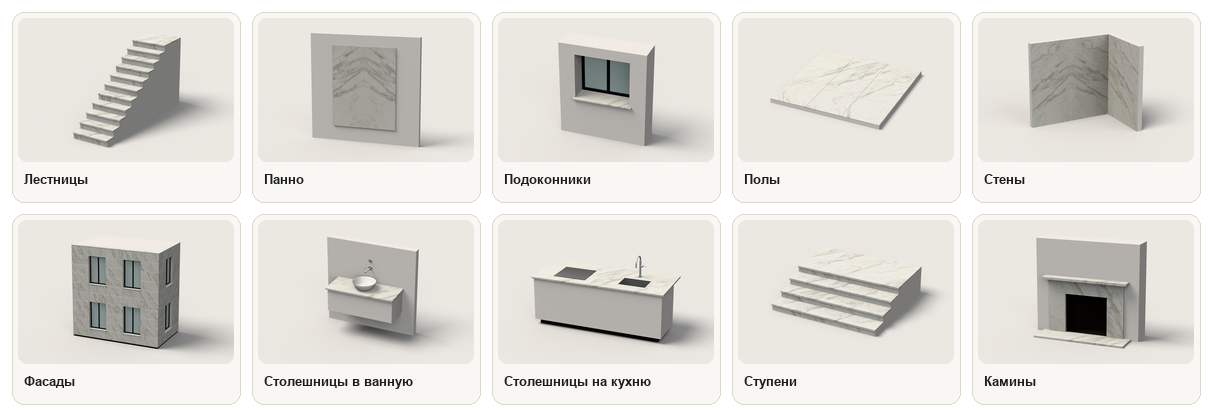
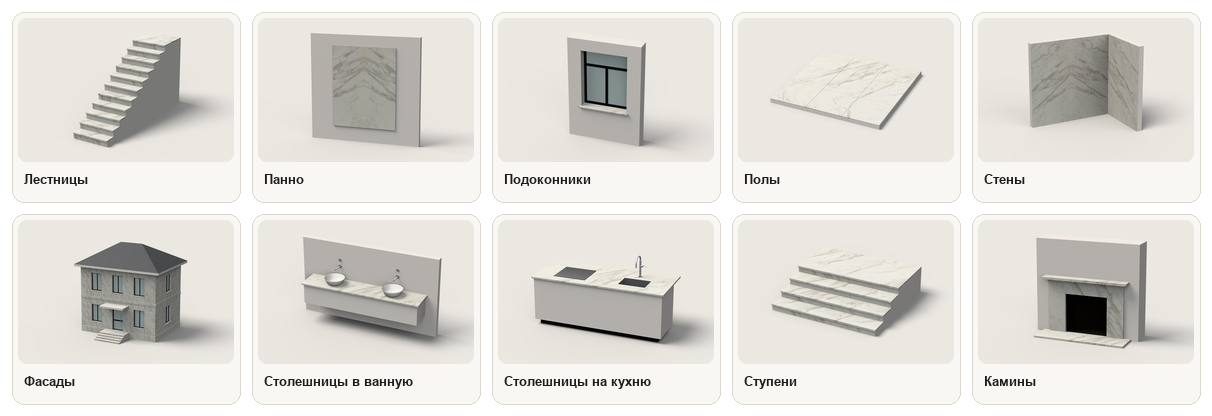
Series А, owner's notes: bathroom top 2400 long like the kitchen one (double vanity: two vessel bowls, two wall spouts); window sill in a 350 wall under a taller 1200x1550 window with a transom; the facade is now a two-storey house 8400x6000 -- projecting stone plinth, stone floor belt, windows and 

Changed region(s): [[0.2442, 0.5625, 0.3969, 0.8438], [0.0611, 0.5625, 0.1832, 0.8438], [0.4579, 0.0938, 0.58, 0.3438]]

diff --git a/scripts/icon-studio/studio.js b/scripts/icon-studio/studio.js
@@ -126,6 +126,7 @@ M.soot = new THREE.MeshStandardMaterial({ color: 0x302e2c, roughness: 0.95 });
 M.frame = new THREE.MeshStandardMaterial({ color: 0x3a3b3c, metalness: 0.6, roughness: 0.45, envMap: ENV, envMapIntensity: 0.5 });
 // стекло как в архитектурном макете: светлое серо-зелёное, с отражением, без «чёрных дыр» в кадре
 M.glass = new THREE.MeshPhysicalMaterial({ color: 0x9fadac, roughness: 0.08, clearcoat: 1, clearcoatRoughness: 0.03, envMap: ENV, envMapIntensity: 0.8 });
+M.roof = new THREE.MeshStandardMaterial({ color: 0x45474a, roughness: 0.55, metalness: 0.3, envMap: ENV, envMapIntensity: 0.4, side: THREE.DoubleSide });
 M.ceramic = new THREE.MeshPhysicalMaterial({ color: 0xf2f1ee, roughness: 0.22, clearcoat: 0.6, clearcoatRoughness: 0.1, envMap: ENV, envMapIntensity: 0.35, side: THREE.DoubleSide });
 
 // ---- плита любой ориентации ----
@@ -317,42 +318,46 @@ function kitchenIsland() {
   return { group: g, camera: {} };
 }
 
-// ---- 2. Столешницы в ванную: подвесная тумба, накладная раковина, настенный излив ----
-// Фрагмент стены 1600×1550×120; тумба 1160×400×460 без фасадов (гипс); плита 1200×500×30, верх на 850;
-// чаша ⌀400×130; излив из стены на 1120.
+// ---- 2. Столешницы в ванную: двойная раковина на подвесной тумбе ----
+// Фрагмент стены 2800×1600×120; тумба 2340×400×460 без фасадов (гипс); плита 2400×500×30 (длина как
+// у кухонной), верх на 850; две накладные чаши ⌀400×130 по осям ±600, над каждой — излив из стены на 1120.
 function bathVanity() {
   const g = new THREE.Group();
   const top = 0.85;
-  g.add(panel(B(-0.8, 0.8, 0, 1.55, -0.12, 0), 'front', { mat: M.plaster }));
-  g.add(box(-0.58, 0.58, 0.42, top - 0.03, 0, 0.46, M.plaster));
-  g.add(panel(B(-0.6, 0.6, top - 0.03, top, 0, 0.5), 'up'));
+  g.add(panel(B(-1.4, 1.4, 0, 1.6, -0.12, 0), 'front', { mat: M.plaster }));
+  g.add(box(-1.17, 1.17, 0.42, top - 0.03, 0, 0.46, M.plaster));
+  g.add(panel(B(-1.2, 1.2, top - 0.03, top, 0, 0.5), 'up'));
   const prof = [[0, 0], [0.11, 0], [0.155, 0.035], [0.188, 0.095], [0.2, 0.13], [0.193, 0.13], [0.181, 0.097], [0.148, 0.042], [0.104, 0.011], [0, 0.011]]
     .map(([r, y]) => new THREE.Vector2(r, y));
-  const bowl = new THREE.Mesh(new THREE.LatheGeometry(prof, 128), M.ceramic);
-  bowl.position.set(0, top, 0.25); bowl.castShadow = bowl.receiveShadow = true; g.add(bowl);
-  const drain = cylinder(0.02, 0.002, M.steel, 48); drain.position.set(0, top + 0.012, 0.25); g.add(drain);
-  const sy = top + 0.27;
-  const plate = cylinder(0.032, 0.012, M.steel); plate.rotation.x = Math.PI / 2; plate.position.set(0, sy, 0.006); g.add(plate);
-  const spout = cylinder(0.011, 0.2, M.steel); spout.rotation.x = Math.PI / 2; spout.position.set(0, sy, 0.112); g.add(spout);
-  const plate2 = cylinder(0.028, 0.012, M.steel); plate2.rotation.x = Math.PI / 2; plate2.position.set(0, sy + 0.13, 0.006); g.add(plate2);
-  const lever = cylinder(0.005, 0.06, M.steel, 32); lever.rotation.x = Math.PI / 2; lever.position.set(0, sy + 0.13, 0.04); g.add(lever);
+  const bowlGeo = new THREE.LatheGeometry(prof, 128);
+  for (const x of [-0.6, 0.6]) {
+    const bowl = new THREE.Mesh(bowlGeo, M.ceramic);
+    bowl.position.set(x, top, 0.25); bowl.castShadow = bowl.receiveShadow = true; g.add(bowl);
+    const drain = cylinder(0.02, 0.002, M.steel, 48); drain.position.set(x, top + 0.012, 0.25); g.add(drain);
+    const sy = top + 0.27;
+    const plate = cylinder(0.032, 0.012, M.steel); plate.rotation.x = Math.PI / 2; plate.position.set(x, sy, 0.006); g.add(plate);
+    const spout = cylinder(0.011, 0.2, M.steel); spout.rotation.x = Math.PI / 2; spout.position.set(x, sy, 0.112); g.add(spout);
+    const plate2 = cylinder(0.028, 0.012, M.steel); plate2.rotation.x = Math.PI / 2; plate2.position.set(x, sy + 0.13, 0.006); g.add(plate2);
+    const lever = cylinder(0.005, 0.06, M.steel, 32); lever.rotation.x = Math.PI / 2; lever.position.set(x, sy + 0.13, 0.04); g.add(lever);
+  }
   return { group: g, camera: { azimuthDeg: 24, elevationDeg: 26 } };
 }
 
-// ---- 3. Подоконники: фрагмент стены 1900×2100×550 с проёмом 1200×1030, подоконник 1300×450×30 ----
-// с «ушами» по 50 мм в откосы и свесом 60 мм; графитовая рама 60 мм с импостом, стекло.
+// ---- 3. Подоконники: фрагмент стены 1900×2700×350 с проёмом 1200×1550, подоконник 1300×270×30 ----
+// с «ушами» по 50 мм в откосы и свесом 60 мм; графитовая рама 60 мм с импостом и фрамугой, стекло.
 function windowSill() {
   const g = new THREE.Group();
-  const [a, b, c, d] = [-0.6, 0.6, 0.85, 1.88], f = 0.06, fz0 = -0.45, fz1 = -0.39;
-  g.add(panel(B(-0.95, 0.95, 0, 2.1, -0.55, 0), 'front', { mat: M.plaster, holes: [{ rect: [a, b, c, d] }] }));
+  const [a, b, c, d] = [-0.6, 0.6, 0.85, 2.4], f = 0.06, fz0 = -0.27, fz1 = -0.21, tr = 1.95;
+  g.add(panel(B(-0.95, 0.95, 0, 2.7, -0.35, 0), 'front', { mat: M.plaster, holes: [{ rect: [a, b, c, d] }] }));
   g.add(panel(B(a - 0.05, b + 0.05, c, c + 0.03, fz1, 0.06), 'up'));
   g.add(box(a, b, c, c + 0.03 + f, fz0, fz1, M.frame));
   g.add(box(a, b, d - f, d, fz0, fz1, M.frame));
   g.add(box(a, a + f, c, d, fz0, fz1, M.frame));
   g.add(box(b - f, b, c, d, fz0, fz1, M.frame));
-  g.add(box(-0.03, 0.03, c, d, fz0, fz1, M.frame));
+  g.add(box(a, b, tr - f / 2, tr + f / 2, fz0, fz1, M.frame));   // фрамуга
+  g.add(box(-0.03, 0.03, c, tr, fz0, fz1, M.frame));             // импост под фрамугой
   g.add(box(a, b, c, d, fz0 + 0.025, fz0 + 0.035, M.glass));
-  return { group: g, camera: { azimuthDeg: 20, elevationDeg: 28 } };
+  return { group: g, camera: { azimuthDeg: 20, elevationDeg: 26 } };
 }
 
 // ---- 4. Полы: образец пола 2400×2400 — плиты 800×800×20 в раскладку со швом 3 мм на гипсовой стяжке 80 ----
@@ -395,58 +400,84 @@ function panno() {
   return { group: g, camera: { azimuthDeg: 18, elevationDeg: 12 } };
 }
 
-// ---- 7. Фасады: угол двухэтажного объёма 6000×3600×6100 в навесном фасаде — плиты 1200×600×30,
-// открытый шов 8 мм; окна 1200×1800 в откосах из камня глубиной 250, каменные отливы со свесом 40,
-// парапет с каменной крышкой, тёмный цоколь 100.
+// ---- 7. Фасады: двухэтажный дом 8400×6000 в навесном фасаде из камня ----
+// Снизу вверх: каменный цоколь 600 (выступает на 40), этаж 3000, межэтажный пояс 240 (выступает на 60),
+// этаж 3000. Плиты 1200×600×30, открытый шов 8 мм. Окна 1200×1800 в каменных откосах 250 с отливами
+// (свес 40); вход: дверь 1200×2400 в откосах, бетонный козырёк, каменное крыльцо — 4 подъёма по 150 до пола
+// на 600 и площадка 1200. Четырёхскатная кровля 30° графитового цвета, свес 500, белый карниз с подшивом.
 function facade() {
   const g = new THREE.Group();
-  const W0 = -3, W1 = 3, D0 = -3.6, Y0 = 0.1, ROW = 0.6, ROWS = 10, COL = 1.2, T = 0.03, gp = 0.008, DEP = 0.25, f = 0.06;
-  const Ytop = Y0 + ROW * ROWS;
-  const floors = [[1, 3], [6, 8]];
-  const winRow = r => floors.some(([p, q]) => r >= p && r <= q);
+  const X0 = -4.2, X1 = 4.2, Z0 = -6.0, COL = 1.2, ROW = 0.6, T = 0.03, gp = 0.008, DEP = 0.25, f = 0.06;
+  const PL = 0.6, F1 = [PL, PL + 3.0], BELT = [F1[1], F1[1] + 0.24], F2 = [BELT[1], BELT[1] + 3.0], EAVE = F2[1];
   let k = 0;
   const spot = () => ({ spot: k++ });
-  for (let c = 0; c < 5; c++) for (let r = 0; r < ROWS; r++) {
-    if ((c === 1 || c === 3) && winRow(r)) continue;
-    const x0 = W0 + c * COL + (c ? gp / 2 : 0), x1 = W0 + (c + 1) * COL - (c < 4 ? gp / 2 : 0);
-    const y0 = Y0 + r * ROW + gp / 2, y1 = Y0 + (r + 1) * ROW - gp / 2;
-    g.add(panel(B(x0, x1, y0, y1, -T, 0), 'front', { uv: spot() }));
-  }
-  for (let c = 0; c < 3; c++) for (let r = 0; r < ROWS; r++) {
-    if (c === 1 && winRow(r)) continue;
-    const z1 = -c * COL - (c ? gp / 2 : T + gp / 2), z0 = -(c + 1) * COL + gp / 2;
-    const y0 = Y0 + r * ROW + gp / 2, y1 = Y0 + (r + 1) * ROW - gp / 2;
-    g.add(panel(B(W1 - T, W1, y0, y1, z0, z1), 'right', { uv: spot() }));
-  }
-  for (const [p, q] of floors) {
-    const c = Y0 + p * ROW, d = Y0 + (q + 1) * ROW;
-    for (const [a, b] of [[-1.8, -0.6], [0.6, 1.8]]) {           // окна фасада
-      g.add(panel(B(a - 0.04, b + 0.04, c - 0.04, c, -DEP, 0.04), 'up'));
-      g.add(panel(B(a - 0.03, a, c, d, -DEP, -T), 'right'));
-      g.add(panel(B(b, b + 0.03, c, d, -DEP, -T), 'left'));
-      const z0 = -DEP, z1 = -DEP + 0.07;
-      g.add(box(a, b, c, c + f, z0, z1, M.frame), box(a, b, d - f, d, z0, z1, M.frame),
-        box(a, a + f, c, d, z0, z1, M.frame), box(b - f, b, c, d, z0, z1, M.frame),
-        box((a + b) / 2 - 0.03, (a + b) / 2 + 0.03, c, d, z0, z1, M.frame),
-        box(a, b, c, d, z0 + 0.02, z0 + 0.03, M.glass));
+  // проёмы: [этаж, колонка, первый ряд, последний ряд, вид]
+  const front = [[F1, 1, 1, 3, 'win'], [F1, 5, 1, 3, 'win'], [F1, 3, 0, 3, 'door'], [F2, 1, 1, 3, 'win'], [F2, 3, 1, 3, 'win'], [F2, 5, 1, 3, 'win']];
+  const side = [[F1, 2, 1, 3, 'win'], [F2, 2, 1, 3, 'win']];
+  const isHole = (list, fl, c, r) => list.some(([F, cc, r0, r1]) => F === fl && cc === c && r >= r0 && r <= r1);
+  const fx = c => [X0 + c * COL + (c ? gp / 2 : 0), X0 + (c + 1) * COL - gp / 2];          // колонка фасада
+  const sz = c => [-(c + 1) * COL + gp / 2, -c * COL - (c ? gp / 2 : T + gp / 2)];            // колонка торца
+
+  // облицовка этажей
+  for (const fl of [F1, F2]) for (let r = 0; r < 5; r++) {
+    const y0 = fl[0] + r * ROW + gp / 2, y1 = fl[0] + (r + 1) * ROW - gp / 2;
+    for (let c = 0; c < 7; c++) {
+      if (isHole(front, fl, c, r)) continue;
+      const [x0, x1] = fx(c);
+      g.add(panel(B(x0, c < 6 ? x1 : X1, y0, y1, -T, 0), 'front', { uv: spot() }));
     }
-    const [a, b] = [-2.4, -1.2];                                   // окно торца
-    g.add(panel(B(W1 - DEP, W1 + 0.04, c - 0.04, c, a - 0.04, b + 0.04), 'up'));
-    g.add(panel(B(W1 - DEP, W1 - T, c, d, a - 0.03, a), 'front'));
-    g.add(panel(B(W1 - DEP, W1 - T, c, d, b, b + 0.03), 'back'));
-    const x1 = W1 - DEP + 0.07, x0 = W1 - DEP;
+    for (let c = 0; c < 5; c++) {
+      if (isHole(side, fl, c, r)) continue;
+      const [z0, z1] = sz(c);
+      g.add(panel(B(X1 - T, X1, y0, y1, z0, z1), 'right', { uv: spot() }));
+    }
+  }
+  // цоколь (выступ 40) и межэтажный пояс (выступ 60): камень, огибает угол
+  for (const [y0, y1, out] of [[0, PL - gp / 2, 0.04], [BELT[0], BELT[1], 0.06]]) {
+    for (let c = 0; c < 7; c++) { const [x0, x1] = fx(c); g.add(panel(B(x0, c < 6 ? x1 : X1 + out, y0, y1, -T, out), 'front', { uv: spot() })); }
+    for (let c = 0; c < 5; c++) { const [z0, z1] = sz(c); g.add(panel(B(X1 - T, X1 + out, y0, y1, z0, z1), 'right', { uv: spot() })); }
+  }
+
+  // проёмы фасада: каменные откосы и отлив (у двери — порог), рама, стекло
+  function openFront(a, b, c, d, kind) {
+    if (kind === 'win') g.add(panel(B(a - 0.04, b + 0.04, c - 0.04, c, -DEP, 0.04), 'up'));
+    else g.add(panel(B(a, b, c - 0.03, c, -DEP, 0.04), 'up'));
+    g.add(panel(B(a - 0.03, a, c, d, -DEP, -T), 'right'), panel(B(b, b + 0.03, c, d, -DEP, -T), 'left'));
+    const z0 = -DEP, z1 = -DEP + 0.07, m = (a + b) / 2;
+    g.add(box(a, b, c, c + f, z0, z1, M.frame), box(a, b, d - f, d, z0, z1, M.frame),
+      box(a, a + f, c, d, z0, z1, M.frame), box(b - f, b, c, d, z0, z1, M.frame),
+      box(a, b, c, d, z0 + 0.02, z0 + 0.03, M.glass));
+    if (kind === 'win') g.add(box(m - 0.03, m + 0.03, c, d, z0, z1, M.frame));
+    else g.add(box(a, b, c + 0.95, c + 1.05, z0, z1, M.frame), box(m + 0.3, m + 0.32, c + 0.8, c + 1.9, z1, z1 + 0.05, M.steel));
+  }
+  function openSide(a, b, c, d) {
+    g.add(panel(B(X1 - DEP, X1 + 0.04, c - 0.04, c, a - 0.04, b + 0.04), 'up'));
+    g.add(panel(B(X1 - DEP, X1 - T, c, d, a - 0.03, a), 'front'), panel(B(X1 - DEP, X1 - T, c, d, b, b + 0.03), 'back'));
+    const x0 = X1 - DEP, x1 = x0 + 0.07, m = (a + b) / 2;
     g.add(box(x0, x1, c, c + f, a, b, M.frame), box(x0, x1, d - f, d, a, b, M.frame),
       box(x0, x1, c, d, a, a + f, M.frame), box(x0, x1, c, d, b - f, b, M.frame),
-      box(x0, x1, c, d, (a + b) / 2 - 0.03, (a + b) / 2 + 0.03, M.frame),
-      box(x0 + 0.02, x0 + 0.03, c, d, a, b, M.glass));
+      box(x0, x1, c, d, m - 0.03, m + 0.03, M.frame), box(x0 + 0.02, x0 + 0.03, c, d, a, b, M.glass));
   }
-  // замкнутый объём: крыша, глухие тыльная и левая стороны (их не видно), тёмный цоколь, каменная крышка парапета
-  g.add(box(W0, W1 - T, Ytop - 0.2, Ytop, D0, -T, M.plaster));
-  g.add(box(W0, W1, 0, Ytop, D0 - 0.02, D0, M.plaster), box(W0 - 0.02, W0, 0, Ytop, D0, 0, M.plaster));
-  g.add(box(W0 + 0.05, W1 - 0.05, 0, Y0, D0, -0.05, M.shadowGap));
-  g.add(panel(B(W0, W1 + 0.02, Ytop, Ytop + 0.04, -0.32, 0.02), 'up'));
-  g.add(panel(B(W1 - 0.32, W1 + 0.02, Ytop, Ytop + 0.04, D0, -0.32), 'up'));
-  return { group: g, camera: { azimuthDeg: 25, elevationDeg: 16 } };
+  for (const [F, c, r0, r1, kind] of front) openFront(X0 + c * COL, X0 + (c + 1) * COL, F[0] + r0 * ROW, F[0] + (r1 + 1) * ROW, kind);
+  for (const [F, c, r0, r1] of side) openSide(-(c + 1) * COL, -c * COL, F[0] + r0 * ROW, F[0] + (r1 + 1) * ROW);
+
+  // вход: бетонный козырёк над дверью и каменное крыльцо до уровня пола
+  g.add(box(-1.3, 1.3, F1[0] + 2.55, F1[0] + 2.73, -T, 1.3, M.plaster));
+  flight(g, { x0: -1.4, x1: 1.4, zFront: 0.04 + 1.2 + 3 * 0.32, n: 4, rise: 0.15, going: 0.32, landing: 1.2 });
+
+  // замкнутый объём (тыльная и левая стороны не видны) и кровля: карниз с подшивом, четыре ската по 30°
+  g.add(box(X0, X1, 0, EAVE, Z0 - 0.02, Z0, M.plaster), box(X0 - 0.02, X0, 0, EAVE, Z0, 0, M.plaster));
+  const ov = 0.5, rx0 = X0 - ov, rx1 = X1 + ov, rz0 = Z0 - ov, rz1 = ov, ry = EAVE + 0.22;
+  g.add(box(rx0, rx1, EAVE, ry, rz0, rz1, M.plaster));
+  const half = (rz1 - rz0) / 2, top = ry + half * Math.tan(rad(30)), zc = (rz0 + rz1) / 2;
+  const A = [rx0, ry, rz1], Bf = [rx1, ry, rz1], C = [rx1, ry, rz0], D = [rx0, ry, rz0];
+  const R0 = [rx0 + half, top, zc], R1 = [rx1 - half, top, zc];
+  const tris = [A, Bf, R1, A, R1, R0, C, D, R0, C, R0, R1, Bf, C, R1, D, A, R0];
+  const roofGeo = new THREE.BufferGeometry();
+  roofGeo.setAttribute('position', new THREE.Float32BufferAttribute(tris.flat(), 3));
+  roofGeo.computeVertexNormals();
+  const roof = new THREE.Mesh(roofGeo, M.roof); roof.castShadow = roof.receiveShadow = true; g.add(roof);
+  return { group: g, camera: { azimuthDeg: 28, elevationDeg: 14 } };
 }
 
 // ---- лестничный марш: гипсовое основание + каменные проступи (40 мм, свес 25) и подступенки (20 мм) ----

diff --git a/docs/icons-concept/CONCEPT.md b/docs/icons-concept/CONCEPT.md
@@ -162,12 +162,12 @@ python scripts/icon-studio/render.py <ключ> out.png   # stoleshnitsa_kuhnya,
 |---|---|---|---|
 | Лестницы | 11 проступей 40 (свес 25), подступенки 20; подъём 170, проступь 280, площадка 900 | основание марша | 32° / 20° |
 | Ступени | 3 ступени 2400×360, подъём 150, площадка 1200 | основание | 28° / 26° |
-| Подоконники | 1300×450×30, «уши» 50, свес 60 | стена 550 с проёмом 1200×1030; рама 60 с импостом, светлое стекло | 20° / 28° |
+| Подоконники | 1300×270×30, «уши» 50, свес 60 | стена 350 с проёмом 1200×1550; рама 60 с импостом и фрамугой, светлое стекло | 20° / 26° |
 | Полы | плиты 800×800×20 в раскладку, шов 3 | стяжка 80 | 25° / 30° |
 | Стены | задняя: 4 плиты 600×2400 «книжкой» от оси; боковая: 2 плиты 800×2400; 20 мм, шов 3 | стены 140 | −28° / 18° (слева: свет в угол) |
 | Панно | 2 плиты 750×1900×20 «книжкой», 12 мм от стены | стена 2600×2500 | 18° / 12° |
-| Фасады | плиты 1200×600×30, шов 8; каменные откосы 250, отливы со свесом 40, крышка парапета | объём 6000×3600×6100, рамы, стекло, тёмный цоколь | 25° / 16° |
-| Столешницы в ванную | 1200×500×30 | стена, подвесная тумба; чаша ⌀400, настенный излив | 24° / 26° |
+| Фасады | цоколь 600 (выступ 40), этажи 3000, межэтажный пояс 240 (выступ 60), плиты 1200×600×30 с открытым швом 8; каменные откосы 250, отливы со свесом 40; крыльцо: 4 подъёма по 150, площадка 1200 | дом 8400×6000; бетонный козырёк над входом; четырёхскатная кровля 30° со свесом 500 и белым карнизом; рамы, стекло | 28° / 14° |
+| Столешницы в ванную | 2400×500×30 (длина как у кухонной) | стена 2800, подвесная тумба; две чаши ⌀400, настенные изливы | 24° / 26° |
 | Столешницы на кухню | 2400×1000×30 с вырезом под мойку | опора, тёмный цоколь; индукция, стальная мойка, смеситель | 22° / 21° |
 | Камины | портал из плит 50: стойки 350, ригель 300, полка 1800×200, подиум 1900×500 | «грудь» 2200×1950×450, топка 900×810×420 | 22° / 14° |
 
